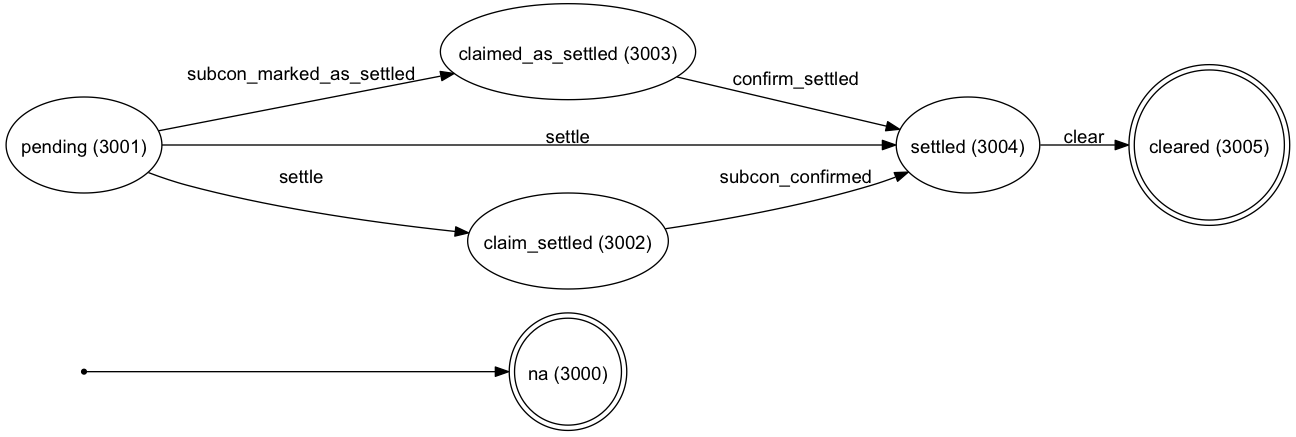
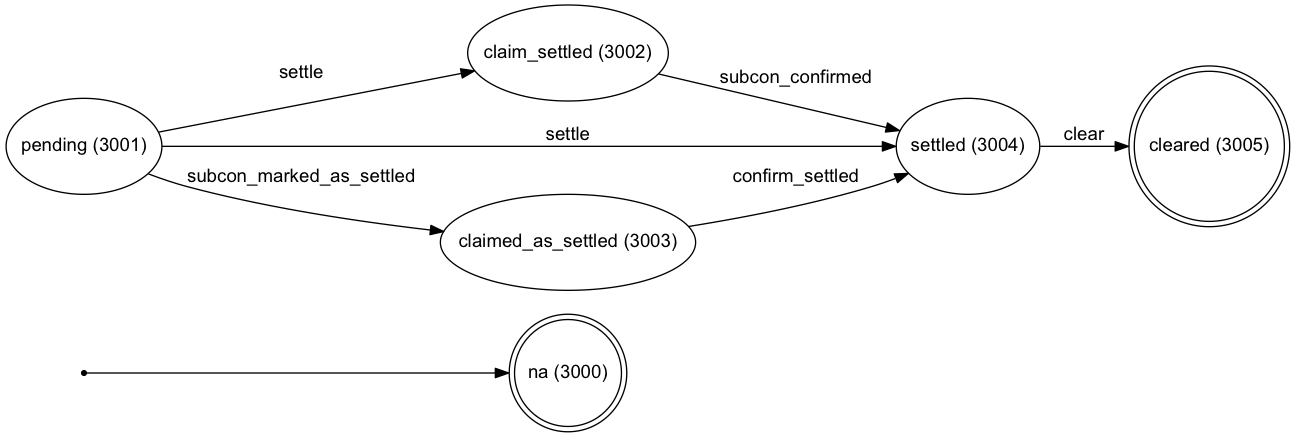
fixed state_machine:draw bug and created fresh state machines

diff --git a/app/models/concerns/customer_job_billing.rb b/app/models/concerns/customer_job_billing.rb
@@ -73,15 +73,6 @@ module CustomerJobBilling
         transition :over_paid => :paid
       end
 
-
-      event :mark_as_fully_paid do
-        transition :partially_collected => :paid, if: ->(sc) { sc.fully_paid? }
-      end
-
-      event :mark_as_overpaid do
-        transition :partially_collected => :overpaid, if: ->(sc) { sc.overpaid? }
-      end
-
       event :cancel do
         transition [:partially_collected, :overdue, :rejected] => :over_paid, if: ->(sc) { sc.outstanding_payments_cleared? }
         transition [:partially_collected, :overdue, :rejected] => :in_process, if: ->(sc) { sc.outstanding_payments_deposited? }
@@ -97,14 +88,6 @@ module CustomerJobBilling
   def overpaid?
     current_payment = payment_amount || 0
     total.cents - (cleared_payment_cents.abs + current_payment.to_f * 100) < 0
-  end
-
-  def check_and_set_as_fully_paid
-    if overpaid?
-      mark_as_over_paid!
-    else
-      mark_as_fully_paid_payment if fully_paid?
-    end
   end
 
   def paid_amount

diff --git a/spec/integration/cancel_service_call/cancel_when_transferred_to_member_spec.rb b/spec/integration/cancel_service_call/cancel_when_transferred_to_member_spec.rb
@@ -1,0 +1,30 @@
+require 'spec_helper'
+
+describe 'Cancel Job When Transferred To a Member' do
+
+  include_context 'transferred job'
+
+  before do
+    transfer_the_job
+  end
+
+  describe 'subcon cancels after accepting' do
+
+    before do
+      accept_the_job subcon_job
+      cancel_the_job subcon_job
+      job.reload
+    end
+
+    it 'subcon job status should be :canceled' do
+      expect(subcon_job.status_name).to eq :canceled
+    end
+
+    it 'job work status should be :canceled' do
+      expect(job.work_status_name).to eq :canceled
+    end
+
+  end
+
+
+end

diff --git a/config/initializers/monkey_patches.rb b/config/initializers/monkey_patches.rb
@@ -61,3 +61,13 @@ if Rails.env == "development" || Rails.env == "test"
   Dir.glob("#{Rails.root}/app/models/accounting_entries/*.rb").sort.each { |file| require_dependency file }
 end
 
+
+# to overcome a state_machine:draw task bug
+unless defined? StateMachine::Machine::Constants::RGV_VERSION
+  warn "StateMachine::Machine::Constants overriden in #{__FILE__}"
+
+  class StateMachine::Machine::Constants
+    RGV_VERSION = /^[ ]*ruby-graphviz \(([0-9.]+)\)/.match(`cat #{Rails.root.join 'Gemfile.lock'}`)[1]
+  end
+end
+

diff --git a/spec/integration/customer_billing/when_no_transfer/prov_none_transfer_customer_billing_spec.rb b/spec/integration/customer_billing/when_no_transfer/prov_none_transfer_customer_billing_spec.rb
@@ -100,7 +100,7 @@ describe 'Customer Billing When Provider Didn\'t Transfer' do
                   expect(job.billing_status_name).to eq :partially_collected
                 end
 
-                it 'available payment events are :collect, :late, :mark_as_overpaid' do
+                it 'available payment events are :collect, :late, :reject and :cancel' do
                   job.billing_status_events.should =~ [:cancel, :collect, :late, :reject]
                 end
 

diff --git a/app/helpers/service_calls_helper.rb b/app/helpers/service_calls_helper.rb
@@ -287,8 +287,7 @@ module ServiceCallsHelper
           paid:                   'paid_form',
           reject:                 'reject_form',
           overdue:                'overdue_form',
-          reimburse:              'reimburse_form',
-          mark_as_overpaid:       'overdue_form'
+          reimburse:              'reimburse_form'
 
       }
     end
